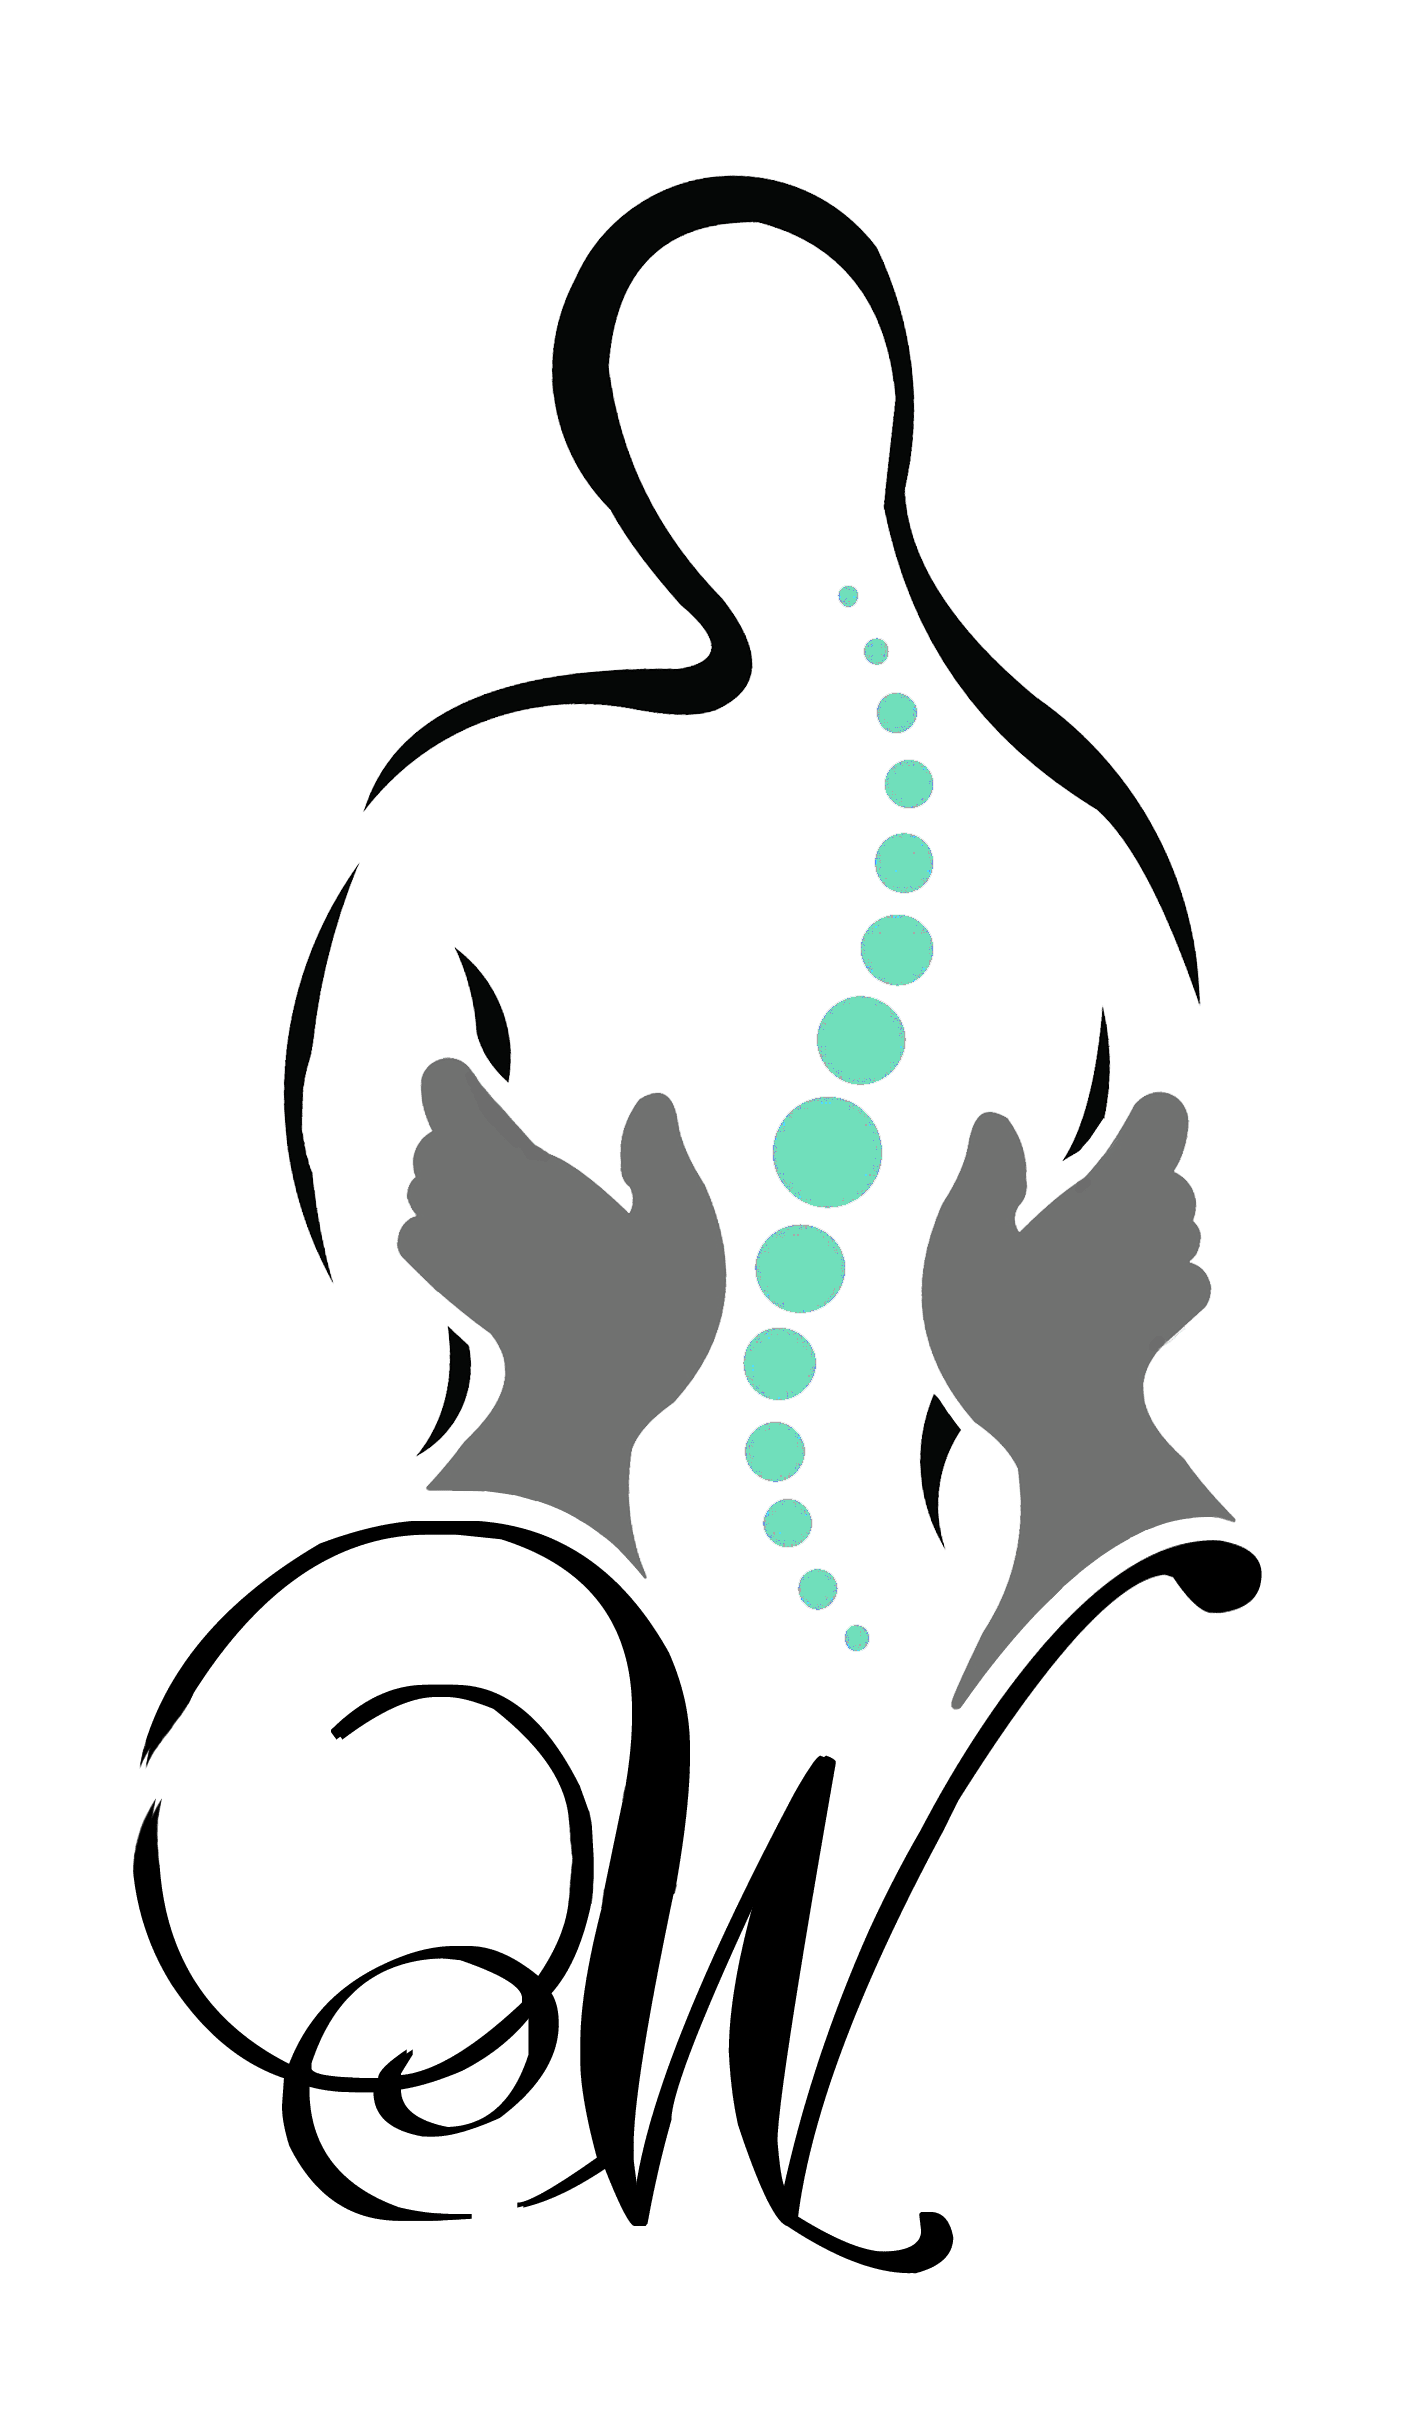
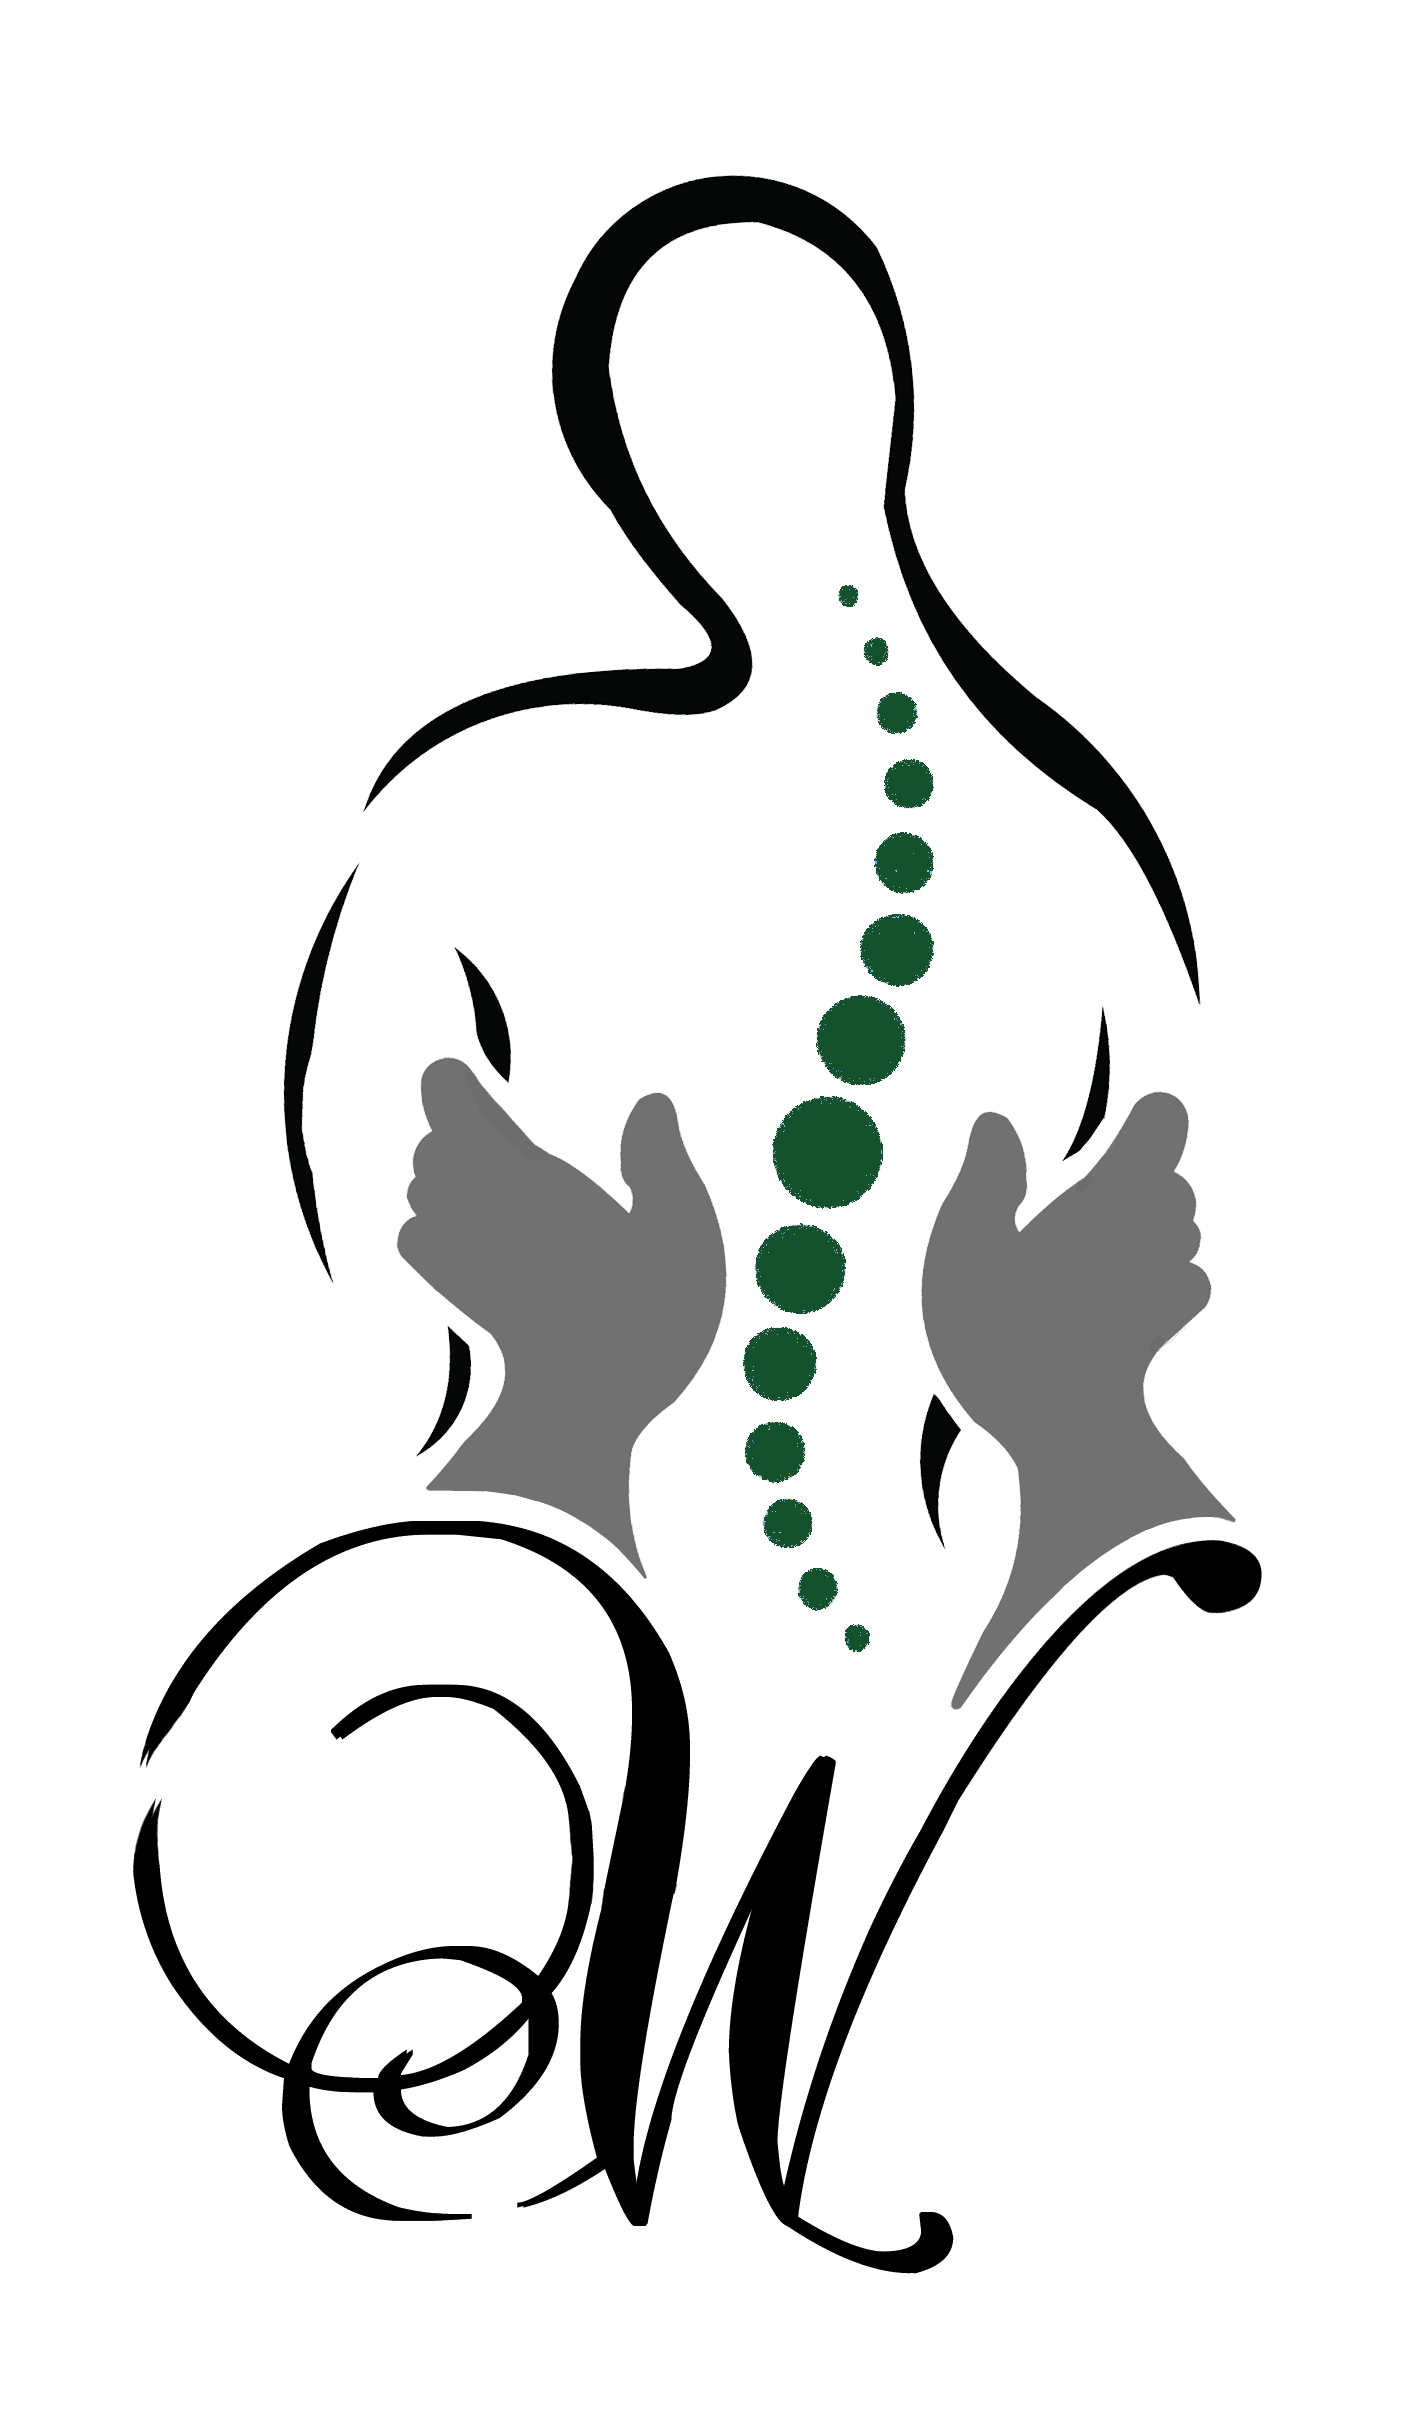
fasfasfas

Changed region(s): [[0.5245, 0.2786, 0.648, 0.681], [0.5863, 0.2476, 0.6171, 0.2786]]

diff --git a/investimento.html b/investimento.html
@@ -187,7 +187,7 @@
                         <p>Abordagem completa e individualizada que combina diferentes recursos terapêuticos para tratar a causa da dor, reduzir a inflamação e restaurar a função do corpo.</p>
                         <div class="valor">
                             <div></div>
-                            <p>R$<span>175</span>.00</p>
+                            <p>R$<span>180</span>.00</p>
                             <span>por sessão</span>
                         </div>
                         <a href="" class="btnagendar"> Agendar sessão <i class="fa fa-regular fa-calendar"></i></a>
@@ -211,7 +211,7 @@
                         <p>Tecnologia avançada que utiliza luz terapêutica para reduzir dor, inflamação, edema e acelerar a recuperação dos tecidos.</p></div>
                         <div class="valor">
                             <div></div>
-                            <p>R$<span>160</span>.00</p>
+                            <p>R$<span>165</span>.00</p>
                             <span>por sessão</span>
                         </div>
                         <a href="" class="btnagendar"> Agendar sessão <i class="fa fa-regular fa-calendar"></i></a>
@@ -236,7 +236,7 @@
     
     
     
-    <div class="container-fluid  invterap">
+    <div class="container-fluid  invterap invmasso">
         <div class="container pb-5">
             <div class="header_text flex_column_center">
                 <h2>Massoterapia</h2>
@@ -249,7 +249,7 @@
                         <p>Alívio de tensões musculares, dores e desconfortos, promovendo relaxamento profundo e bem-estar.</p></div>
                         <div class="valor">
                             <div></div>
-                            <p>R$<span>160</span>.00</p>
+                            <p>R$<span>165</span>.00</p>
                             <span>por sessão</span>
                         </div>
                         <a href="" class="btnagendar"> Agendar sessão <i class="fa fa-regular fa-calendar"></i></a>
@@ -261,7 +261,7 @@
                         <p>Associação que promove redução de volume, melhora da circulação, alívio do desconforto e recuperação dos tecidos.</p></div>
                         <div class="valor">
                             <div></div>
-                            <p>R$<span>160</span>.00</p>
+                            <p>R$<span>165</span>.00</p>
                             <span>por sessão</span>
                         </div>
                         <a href="" class="btnagendar"> Agendar sessão <i class="fa fa-regular fa-calendar"></i></a>
@@ -285,7 +285,7 @@
                            <p>Movimentos suaves que proporcionam relaxamento profundo e redução do estresse.</p></div>
                         <div class="valor">
                             <div></div>
-                            <p>R$<span>160</span>.00</p>
+                            <p>R$<span>155</span>.00</p>
                             <span>por sessão</span>
                         </div>
                         <a href="" class="btnagendar"> Agendar sessão <i class="fa fa-regular fa-calendar"></i></a>
@@ -297,7 +297,7 @@
                         <p>Técnica clássica que melhora a circulação, reduz tensões e promove bem-estar geral.</p></div>
                         <div class="valor">
                             <div></div>
-                            <p>R$<span>160</span>.00</p>
+                            <p>R$<span>155</span>.00</p>
                             <span>por sessão</span>
                         </div>
                         <a href="" class="btnagendar"> Agendar sessão <i class="fa fa-regular fa-calendar"></i></a>